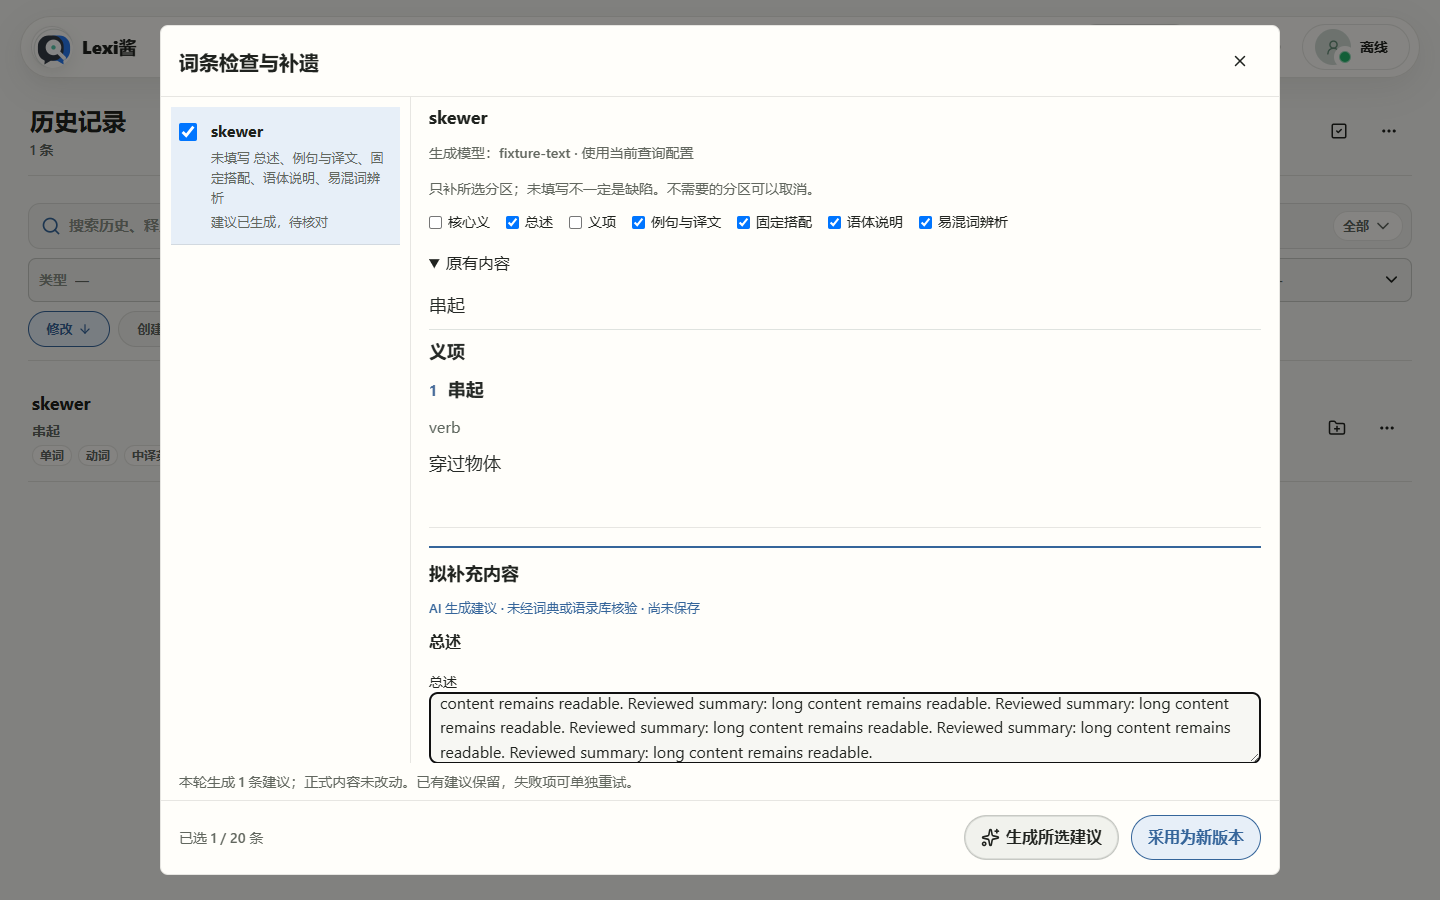
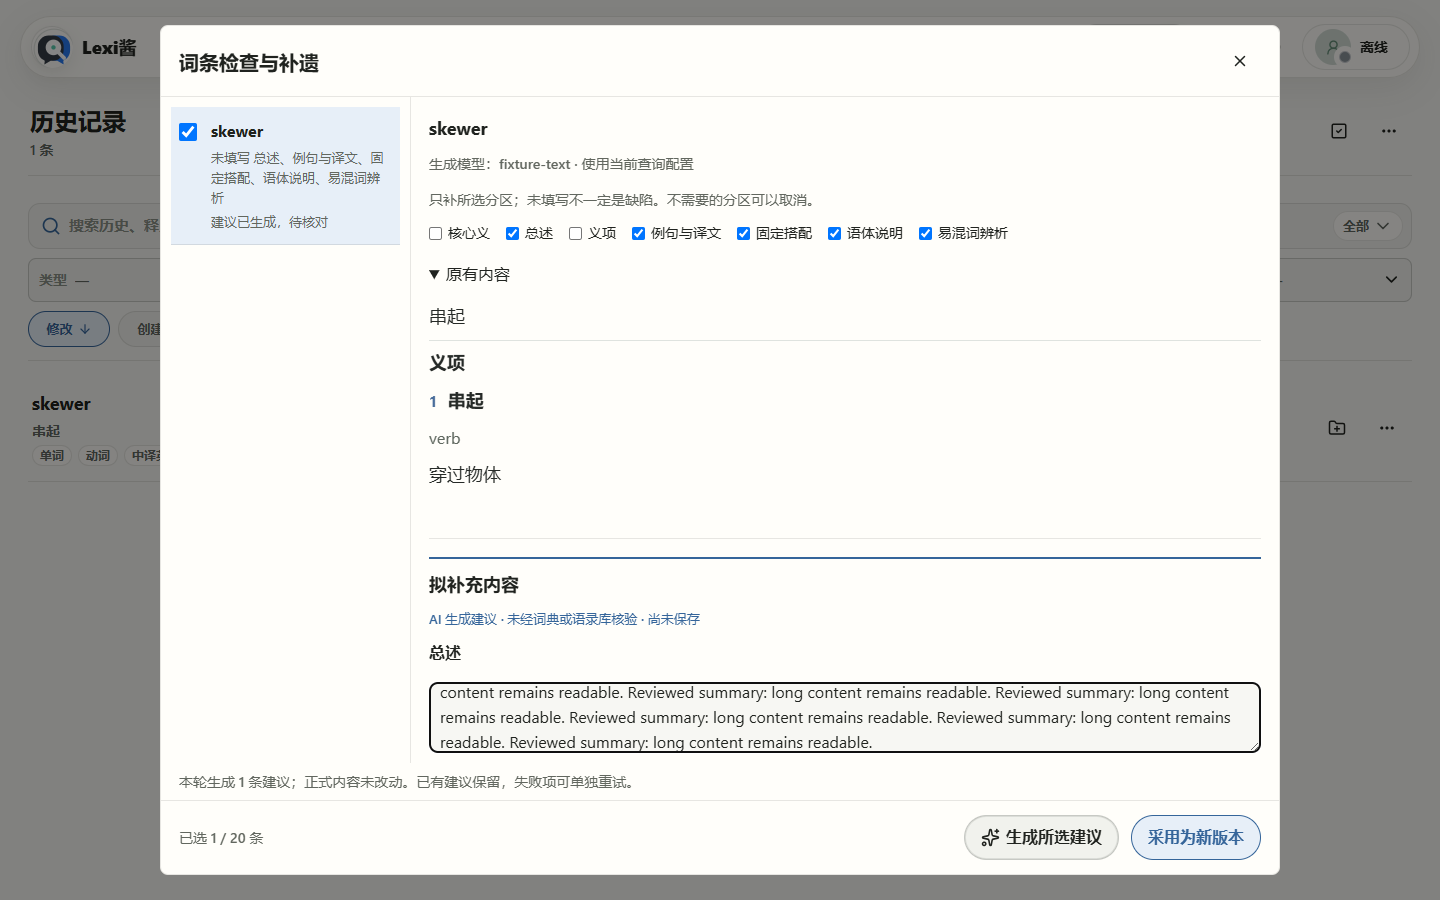
docs: record v0.42.0 production acceptance and remaining twelve units

diff --git a/docs/reports/v0420-entry-maintenance.md b/docs/reports/v0420-entry-maintenance.md
@@ -2,7 +2,7 @@
 
 ## Status
 
-Stage A implemented and locally verified; preview/production acceptance pending. This is6 of the approved18 units, not the entire v0.42 plan. Stage B duplicate consolidation and C real-provider screenshot release remain pending. No private history, Anki/Fushi data or actual paid model was changed by these tests.
+Stage A released and verified on preview/production. This is6 of the approved18 units, not the entire v0.42 plan. Stage B duplicate consolidation and C real-provider screenshot release remain pending. No private history, Anki/Fushi data or actual paid model was changed by these tests.
 
 | Unit | Result | Evidence |
 | --- | --- | --- |
@@ -29,4 +29,25 @@ Physical iPhone and authenticated multi-device synchronization were not exercise
 
 ## Release
 
-Pending preview and production evidence; do not interpret candidate source version as production deployment.
+Implementation131e769; final runtime7e209f7ab0f720fb09a25d18af578bd60b6841d3, pushed to main. Preview https://222e74a0.ai-vocab-tool.pages.dev passed143 exact file hashes/auth and five-width/two-theme synthetic interactions. Final feedback-only preview https://84de530e.ai-vocab-tool.pages.dev passed143 hashes/auth and390dark including the actual favorites menu. Production https://0bddb7dd.ai-vocab-tool.pages.dev / https://ai-vocab-tool.pages.dev passed143 hashes/auth and390dark/1440light full synthetic flows. Source and worker changes deployed, not just a static mockup.
+
+Initial preview56438cb8 failed during1024light reload because server configuration could still be null; corrected before production and covered by explicit null injection on every final matrix reload. Individual retry count/no-overwrite confirmation tested. Empty or oversized legacy structures display a safe explanation instead of crashing the dialog. Long Origin inputs are not truncated or incorrectly subjected to the Anki card's400-character Origin constraint.
+
+Actual screenshots: [phone](v0420/entry-mobile.png), [desktop](v0420/entry-desktop.png).
+
+## Remaining12 units
+
+| Unit | State |
+| --- | --- |
+| B1 shared lookup identity | Pending; existing inflict mismatch not fixed by supplementation |
+| B2 duplicate evidence list | Pending |
+| B3 reviewed entry consolidation | Pending |
+| B4 reviewed scene/reference consolidation | Pending |
+| B5 atomic trace/tombstone synchronization | Pending |
+| B6 reviewed consolidation undo | Pending |
+| C1 safe capture-preview integration | Pending production delivery; keep isolated |
+| C2 configured/manual vision preferences | Pending |
+| C3 actual provider image acceptance | Pending; no credentials requested or paid request made |
+| C4 batch image recognition/review | Independent preview exists, not production delivery |
+| C5 confirmed canonical sources and saved learning flow | Partial preview only; canonical identity/aliases pending |
+| C6 full screenshot lifecycle/production release | Pending |

diff --git a/PROJECT_CONTEXT.md b/PROJECT_CONTEXT.md
@@ -6,7 +6,7 @@ This file exists so a new Cursor/Codex conversation can continue without relying
 
 ## Current Goal
 
-- v0.42.0 candidate: stage A legacy-entry supplementation implemented with selected sections, reviewed editable structured output, local IndexedDB draft recovery, atomic new rolls and account/revision-guarded undo. Five-width/two-theme local synthetic tests passed before final layout refinement; release acceptance in progress. No actual model/provider or private history changed. Stage B consolidation and C production vision remain pending. See docs/plans/2026-10-25-v042-maintenance.md.
+- v0.42.0 RELEASED stage A only: runtime7e209f7ab0f720fb09a25d18af578bd60b6841d3, production https://0bddb7dd.ai-vocab-tool.pages.dev / https://ai-vocab-tool.pages.dev.143 hashes/auth plus390dark/1440light flows passed. Preview222e74a0 five widths/two themes; final84de530e143 hashes/auth and390dark favorites/section confirmation passed. Selected structured supplementation, editable proposals, local IndexedDB draft recovery, new default rolls retaining originals, guarded atomic save/undo. Tests synthetic/mocked AI only, no native/private records or real paid provider changed. Initial null-config reload failure fixed before release. Stage B safe duplicate consolidation and C actual-provider production vision are NOT delivered;12 remaining units itemized in docs/reports/v0420-entry-maintenance.md. Capture parity next, isolated.
 
 v0.41.1 capture parity complete: mergeece5a4b/docsfe227c5, https://813803e0.ai-vocab-tool.pages.dev;144 hashes/auth and deployed390dark Home/maintenance passed. Local capture five-width/two-theme/data/contracts and shared390dark passed. Main restored with140 files/72 icons, no capture-ui.js. Supersedes pending-parity wording below; unfinished capture remains isolated.
 

diff --git a/docs/plans/2026-10-23-learning-release-ledger.md b/docs/plans/2026-10-23-learning-release-ledger.md
@@ -57,6 +57,8 @@ Do not silently drop any row when delivering a newer UI iteration. No scheduled 
 
 ## Design decisions
 
+2026-10-25 v0.42.0: legacy entry long-form supplementation is now implemented/released as reviewed new versions with local recoverable drafts; this supersedes only earlier wording that it is entirely unimplemented. Actual provider output quality remains untested; no paid invocation in acceptance. Stage B duplicate consolidation and C production screenshot release remain pending.18-unit checkpoint report: ../reports/v0420-entry-maintenance.md. Teyvat/media/large-data migration are not part of this completion count.
+
 2026-10-25 maintenance follow-up: scene title/translation reviewed supplementation is implemented as a scoped first step in v0.41.1; it does NOT complete legacy entry long-form expansion, image-derived scene descriptions/originals, canonical source matching, or existing private duplicate-record migration. Those remain explicit pending tasks. Model-free naming is the default; AI text naming is opt-in. See docs/plans/2026-10-25-home-scene-continuity.md.
 
 Use generated reference for batch list/detail hierarchy, visible footer and mobile detail navigation. Reject its invented canonical source, mandatory per-item copy controls, and optional-original checkbox: originals are ALWAYS retained. Keep actual existing icons/themes, show real match evidence and source coverage; do not display synthetic reference content as verified results. Do not bundle generated reference as application background.

diff --git a/README.md b/README.md
@@ -4,7 +4,7 @@
 
 ## 最新进展
 
-- v0.42.0 候选验收：历史／收藏的词条检查与补遗，明确选区生成、编辑建议、本机草稿恢复、原版本保留和受保护撤销。重复归并与生产识图未交付；发布证据见 docs/reports/v0420-entry-maintenance.md。
+- v0.42.0 已发布：历史／收藏的词条检查与补遗，明确选区生成、编辑建议、本机草稿恢复、原版本保留和受保护撤销。预览五宽双主题、正式站143份资源与手机／桌面合成回归通过。重复归并与生产识图未交付；发布证据见 docs/reports/v0420-entry-maintenance.md。
 - v0.41.1 已发布：首页保留场景绑定与多词查询，精确复用同图同内容；统一危险操作、已有词条直接关联和默认重置隐藏。标题方式可选，场景更多菜单新增名称／译文“检查与补遗”预览，未冒充看图或旧词条长文补齐。五宽双主题预览、正式站140份资源与手机／桌面核验通过；见 docs/reports/v0411-scene-continuity.md。
 
 - v0.41.0 已发布：多行逐词联想、可移除词组标签、英汉／日英／中英基础词典及独立开关。五宽双主题预览、正式站140份资源与390深色／1440浅色交互通过。使用公开许可词库，不读取苹果系统词典、不改写 AI JSON；见 docs/reports/v0410-multilingual.md。
